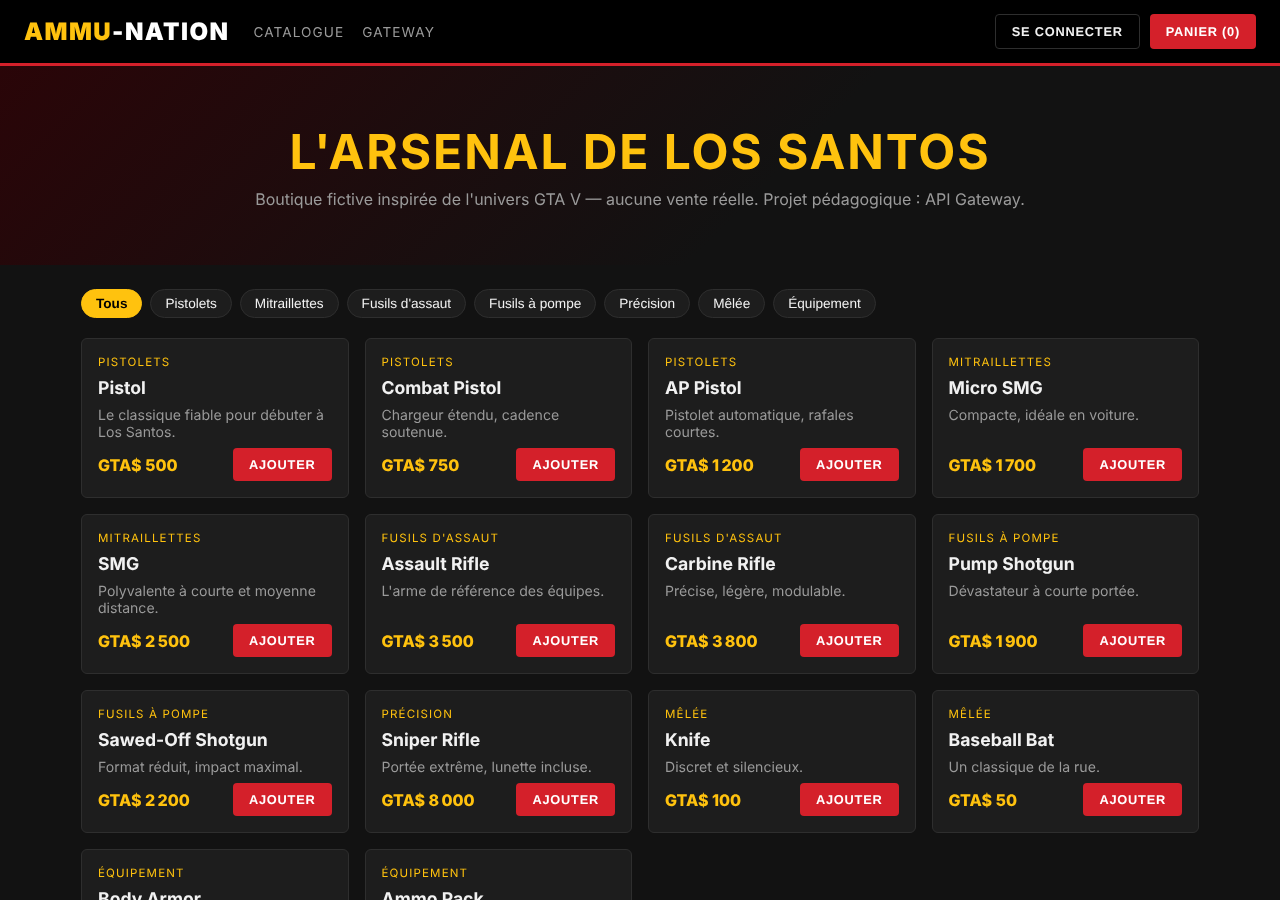
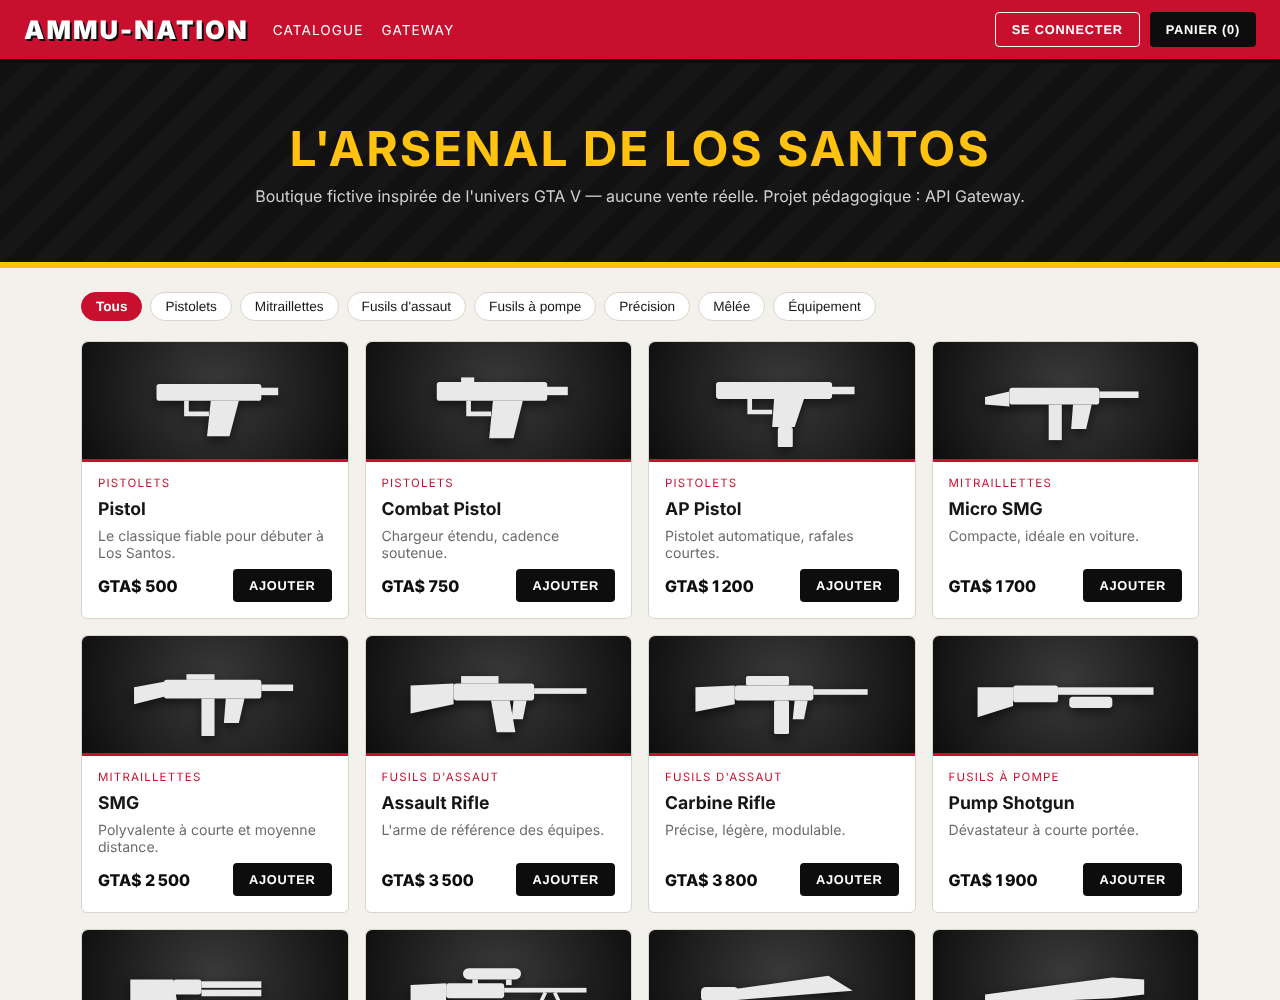
Front Ammu-Nation : charte rouge/blanc/noir et silhouettes SVG des armes

diff --git a/frontend/style.css b/frontend/style.css
@@ -1,34 +1,37 @@
-:root{--bg:#121212;--card:#1d1d1d;--line:#2e2e2e;--red:#d4202a;--yellow:#ffc20e;--text:#f1f1f1;--muted:#9a9a9a}
+:root{--bg:#f3f1ec;--card:#ffffff;--line:#d9d5cc;--red:#c8102e;--yellow:#ffc20e;--text:#161616;--muted:#6b6b6b;--ink:#0d0d0d}
 *{box-sizing:border-box}
 body{margin:0;background:var(--bg);color:var(--text);font-family:system-ui,Segoe UI,Roboto,sans-serif}
 .hidden{display:none!important}
-.top{display:flex;align-items:center;gap:24px;padding:14px 24px;background:#000;border-bottom:3px solid var(--red);position:sticky;top:0;z-index:5}
-.logo{font-weight:900;font-size:1.5rem;letter-spacing:.06em;color:#fff}
-.logo span{color:var(--yellow)}
+.top{display:flex;align-items:center;gap:24px;padding:12px 24px;background:var(--red);border-bottom:4px solid var(--ink);position:sticky;top:0;z-index:5}
+.logo{font-weight:900;font-size:1.6rem;letter-spacing:.08em;color:#fff;text-shadow:2px 2px 0 var(--ink)}
+.logo span{color:#fff}
 nav{display:flex;gap:18px;flex:1}
-nav a{color:var(--muted);text-decoration:none;text-transform:uppercase;font-size:.85rem;letter-spacing:.08em}
+nav a{color:#fff;text-decoration:none;text-transform:uppercase;font-size:.85rem;letter-spacing:.08em}
 nav a:hover{color:var(--yellow)}
 .actions{display:flex;gap:10px}
-.btn{background:var(--red);color:#fff;border:0;padding:9px 16px;border-radius:4px;font-weight:700;text-transform:uppercase;font-size:.8rem;letter-spacing:.06em;cursor:pointer}
+.btn{background:var(--ink);color:#fff;border:0;padding:9px 16px;border-radius:4px;font-weight:700;text-transform:uppercase;font-size:.8rem;letter-spacing:.06em;cursor:pointer}
 .btn:hover{filter:brightness(1.15)}
-.btn.ghost{background:transparent;border:1px solid var(--line);color:var(--text)}
+.btn.ghost{background:transparent;border:1px solid #fff;color:#fff}
+.cart .btn.ghost{border-color:var(--line);color:var(--text)}
 .btn.block{width:100%;padding:12px}
-.hero{padding:56px 24px;text-align:center;background:linear-gradient(135deg,#2a0508,#121212 60%)}
+.hero{padding:56px 24px;text-align:center;background:repeating-linear-gradient(135deg,#111 0 18px,#161616 18px 36px);border-bottom:6px solid var(--yellow)}
 .hero h1{margin:0 0 8px;font-size:clamp(1.8rem,5vw,3rem);text-transform:uppercase;letter-spacing:.04em;color:var(--yellow)}
-.hero p{margin:0;color:var(--muted)}
+.hero p{margin:0;color:#cfcfcf}
 main{max-width:1150px;margin:0 auto;padding:24px 16px}
 .filters{display:flex;flex-wrap:wrap;gap:8px;margin-bottom:20px}
 .chip{border:1px solid var(--line);background:var(--card);color:var(--text);padding:6px 14px;border-radius:999px;cursor:pointer;font-size:.85rem}
-.chip.on{background:var(--yellow);color:#000;border-color:var(--yellow);font-weight:700}
+.chip.on{background:var(--red);color:#fff;border-color:var(--red);font-weight:700}
 .grid{display:grid;grid-template-columns:repeat(auto-fill,minmax(230px,1fr));gap:16px}
 .card{background:var(--card);border:1px solid var(--line);border-radius:6px;padding:16px;display:flex;flex-direction:column;gap:8px}
 .card:hover{border-color:var(--red)}
-.card .cat{color:var(--yellow);font-size:.72rem;text-transform:uppercase;letter-spacing:.1em}
+.card .cat{color:var(--red);font-size:.72rem;text-transform:uppercase;letter-spacing:.1em}
 .card h3{margin:0;font-size:1.1rem}
 .card p{margin:0;color:var(--muted);font-size:.88rem;flex:1}
 .card .row{display:flex;justify-content:space-between;align-items:center}
-.price{font-weight:800;color:var(--yellow)}
-.cart{position:fixed;top:0;right:0;width:min(380px,100%);height:100%;background:#181818;border-left:3px solid var(--red);padding:20px;z-index:10;display:flex;flex-direction:column;gap:12px;overflow:auto}
+.price{font-weight:800;color:var(--ink)}
+.pic{height:120px;margin:-16px -16px 6px;background:radial-gradient(circle at 50% 40%,#3a3a3a,#0d0d0d);border-bottom:3px solid var(--red);color:#e9e9e9;display:flex;align-items:center;justify-content:center;border-radius:6px 6px 0 0}
+.pic svg{width:78%;height:80%;filter:drop-shadow(0 4px 6px rgba(0,0,0,.6))}
+.cart{position:fixed;top:0;right:0;width:min(380px,100%);height:100%;background:#fff;box-shadow:-8px 0 24px rgba(0,0,0,.25);border-left:3px solid var(--red);padding:20px;z-index:10;display:flex;flex-direction:column;gap:12px;overflow:auto}
 .cart-head{display:flex;justify-content:space-between;align-items:center}
 .cart h2{margin:0}
 .cart ul{list-style:none;margin:0;padding:0;flex:1}
@@ -36,13 +39,13 @@ main{max-width:1150px;margin:0 auto;padding:24px 16px}
 .cart li button{background:none;border:0;color:var(--red);cursor:pointer;font-weight:700}
 .total{font-size:1.05rem}
 .msg{min-height:1.4em;font-size:.88rem;margin:0}
-.msg.ok{color:#5fd068}.msg.err{color:#ff6b6b}
+.msg.ok{color:#1c7c2b}.msg.err{color:var(--red)}
 .gw{max-width:1150px;margin:10px auto 40px;padding:0 16px}
 .gw table{width:100%;border-collapse:collapse;font-size:.82rem}
 .gw th,.gw td{text-align:left;padding:6px 8px;border-bottom:1px solid var(--line)}
 .gw th{color:var(--muted);font-weight:600}
-.s2{color:#5fd068}.s4{color:var(--yellow)}.s5{color:#ff6b6b}
-code{background:#000;padding:1px 6px;border-radius:3px}
+.s2{color:#1c7c2b}.s4{color:#b07d00}.s5{color:var(--red)}
+code{background:#e8e4da;padding:1px 6px;border-radius:3px}
 .muted{color:var(--muted)}
-footer{padding:20px;text-align:center;color:var(--muted);font-size:.78rem;border-top:1px solid var(--line)}
+footer{background:var(--ink);color:#bbb;padding:20px;text-align:center;color:var(--muted);font-size:.78rem;border-top:4px solid var(--red)}
 @media(max-width:640px){nav{display:none}.top{gap:10px}}

diff --git a/frontend/app.js b/frontend/app.js
@@ -3,6 +3,26 @@ const money = (n) => "GTA$ " + n.toLocaleString("fr-FR");
 let products = [], cart = {}, filter = "Tous", token = null;
 try { token = sessionStorage.getItem("token"); } catch (e) {}
 
+
+// Silhouettes dessinées pour le projet (pas d'images officielles du jeu)
+const ICON = {
+  "Pistol": '<rect x="38" y="32" width="112" height="18" rx="3"/><rect x="146" y="36" width="22" height="8"/><polygon points="96,50 126,50 116,88 92,88"/><path d="M70 50v14h24" fill="none" stroke="currentColor" stroke-width="5"/>',
+  "Combat Pistol": '<rect x="34" y="30" width="118" height="20" rx="3"/><rect x="150" y="35" width="24" height="9"/><polygon points="94,50 126,50 116,90 90,90"/><rect x="60" y="25" width="14" height="6"/><path d="M68 50v14h24" fill="none" stroke="currentColor" stroke-width="5"/>',
+  "AP Pistol": '<rect x="30" y="30" width="124" height="18" rx="3"/><rect x="152" y="35" width="26" height="8"/><polygon points="92,48 124,48 114,78 90,78"/><rect x="96" y="78" width="16" height="22" rx="2"/><path d="M66 48v14h24" fill="none" stroke="currentColor" stroke-width="5"/>',
+  "Micro SMG": '<rect x="40" y="36" width="96" height="18" rx="3"/><rect x="136" y="40" width="42" height="7"/><rect x="82" y="54" width="14" height="38"/><polygon points="108,54 128,54 122,80 106,80"/><path d="M40 40l-26 6v8l26 2" />',
+  "SMG": '<rect x="46" y="34" width="104" height="20" rx="3"/><rect x="150" y="39" width="34" height="7"/><rect x="86" y="54" width="14" height="40"/><polygon points="112,54 132,54 126,80 110,80"/><polygon points="46,36 14,42 14,60 46,52"/><rect x="70" y="28" width="30" height="6"/>',
+  "Assault Rifle": '<polygon points="6,40 52,38 52,60 6,70"/><rect x="52" y="38" width="86" height="18" rx="3"/><rect x="138" y="43" width="56" height="6"/><polygon points="92,56 112,56 118,90 98,90"/><polygon points="116,56 130,56 126,76 114,76"/><rect x="60" y="30" width="40" height="8"/>',
+  "Carbine Rifle": '<polygon points="8,42 50,40 50,60 8,68"/><rect x="50" y="40" width="84" height="16" rx="3"/><rect x="134" y="44" width="58" height="6"/><rect x="92" y="56" width="16" height="36" rx="2"/><polygon points="114,56 128,56 124,76 112,76"/><rect x="62" y="30" width="46" height="10" rx="2"/>',
+  "Pump Shotgun": '<polygon points="6,42 44,42 44,62 6,74"/><rect x="44" y="40" width="48" height="18" rx="3"/><rect x="92" y="42" width="102" height="8"/><rect x="104" y="52" width="46" height="12" rx="4"/>',
+  "Sawed-Off Shotgun": '<polygon points="10,40 56,40 60,64 10,76"/><rect x="56" y="40" width="30" height="16" rx="3"/><rect x="86" y="42" width="64" height="7"/><rect x="86" y="51" width="64" height="7"/>',
+  "Sniper Rifle": '<polygon points="6,46 44,44 44,66 6,76"/><rect x="44" y="44" width="62" height="16" rx="3"/><rect x="106" y="49" width="88" height="5"/><rect x="62" y="28" width="62" height="12" rx="6"/><rect x="72" y="40" width="6" height="6"/><rect x="108" y="40" width="6" height="6"/><path d="M150 54l-14 30M160 54l14 30" stroke="currentColor" stroke-width="4" fill="none"/>',
+  "Knife": '<polygon points="52,50 150,36 176,52 52,62"/><rect x="14" y="48" width="40" height="16" rx="5"/>',
+  "Baseball Bat": '<polygon points="14,56 150,38 184,40 184,56 150,60 14,66"/>',
+  "Body Armor": '<path d="M52 20h24c4 10 44 10 48 0h24l22 24-16 14-8-6v44H54V52l-8 6-16-14z"/>',
+  "Ammo Pack": '<rect x="30" y="52" width="140" height="42" rx="4"/><rect x="40" y="22" width="16" height="30" rx="8"/><rect x="66" y="22" width="16" height="30" rx="8"/><rect x="92" y="22" width="16" height="30" rx="8"/><rect x="118" y="22" width="16" height="30" rx="8"/><rect x="144" y="22" width="16" height="30" rx="8"/>'
+};
+const svg = (name) => `<svg viewBox="0 0 200 100" fill="currentColor" aria-label="${name}">${ICON[name] || ICON["Pistol"]}</svg>`;
+
 // Journal des appels : montre ce que renvoie la gateway (statut, instance, id de corrélation)
 function trace(method, url, res) {
   const tr = document.createElement("tr");
@@ -46,7 +66,7 @@ function renderGrid() {
   $("grid").innerHTML = "";
   products.filter((p) => filter === "Tous" || p.category === filter).forEach((p) => {
     const d = document.createElement("div"); d.className = "card";
-    d.innerHTML = `<span class="cat">${p.category}</span><h3>${p.name}</h3><p>${p.description}</p>` +
+    d.innerHTML = `<div class="pic">${svg(p.name)}</div><span class="cat">${p.category}</span><h3>${p.name}</h3><p>${p.description}</p>` +
       `<div class="row"><span class="price">${money(p.price)}</span><button class="btn">Ajouter</button></div>`;
     d.querySelector("button").onclick = () => { cart[p.id] = (cart[p.id] || 0) + 1; renderCart(); };
     $("grid").appendChild(d);
